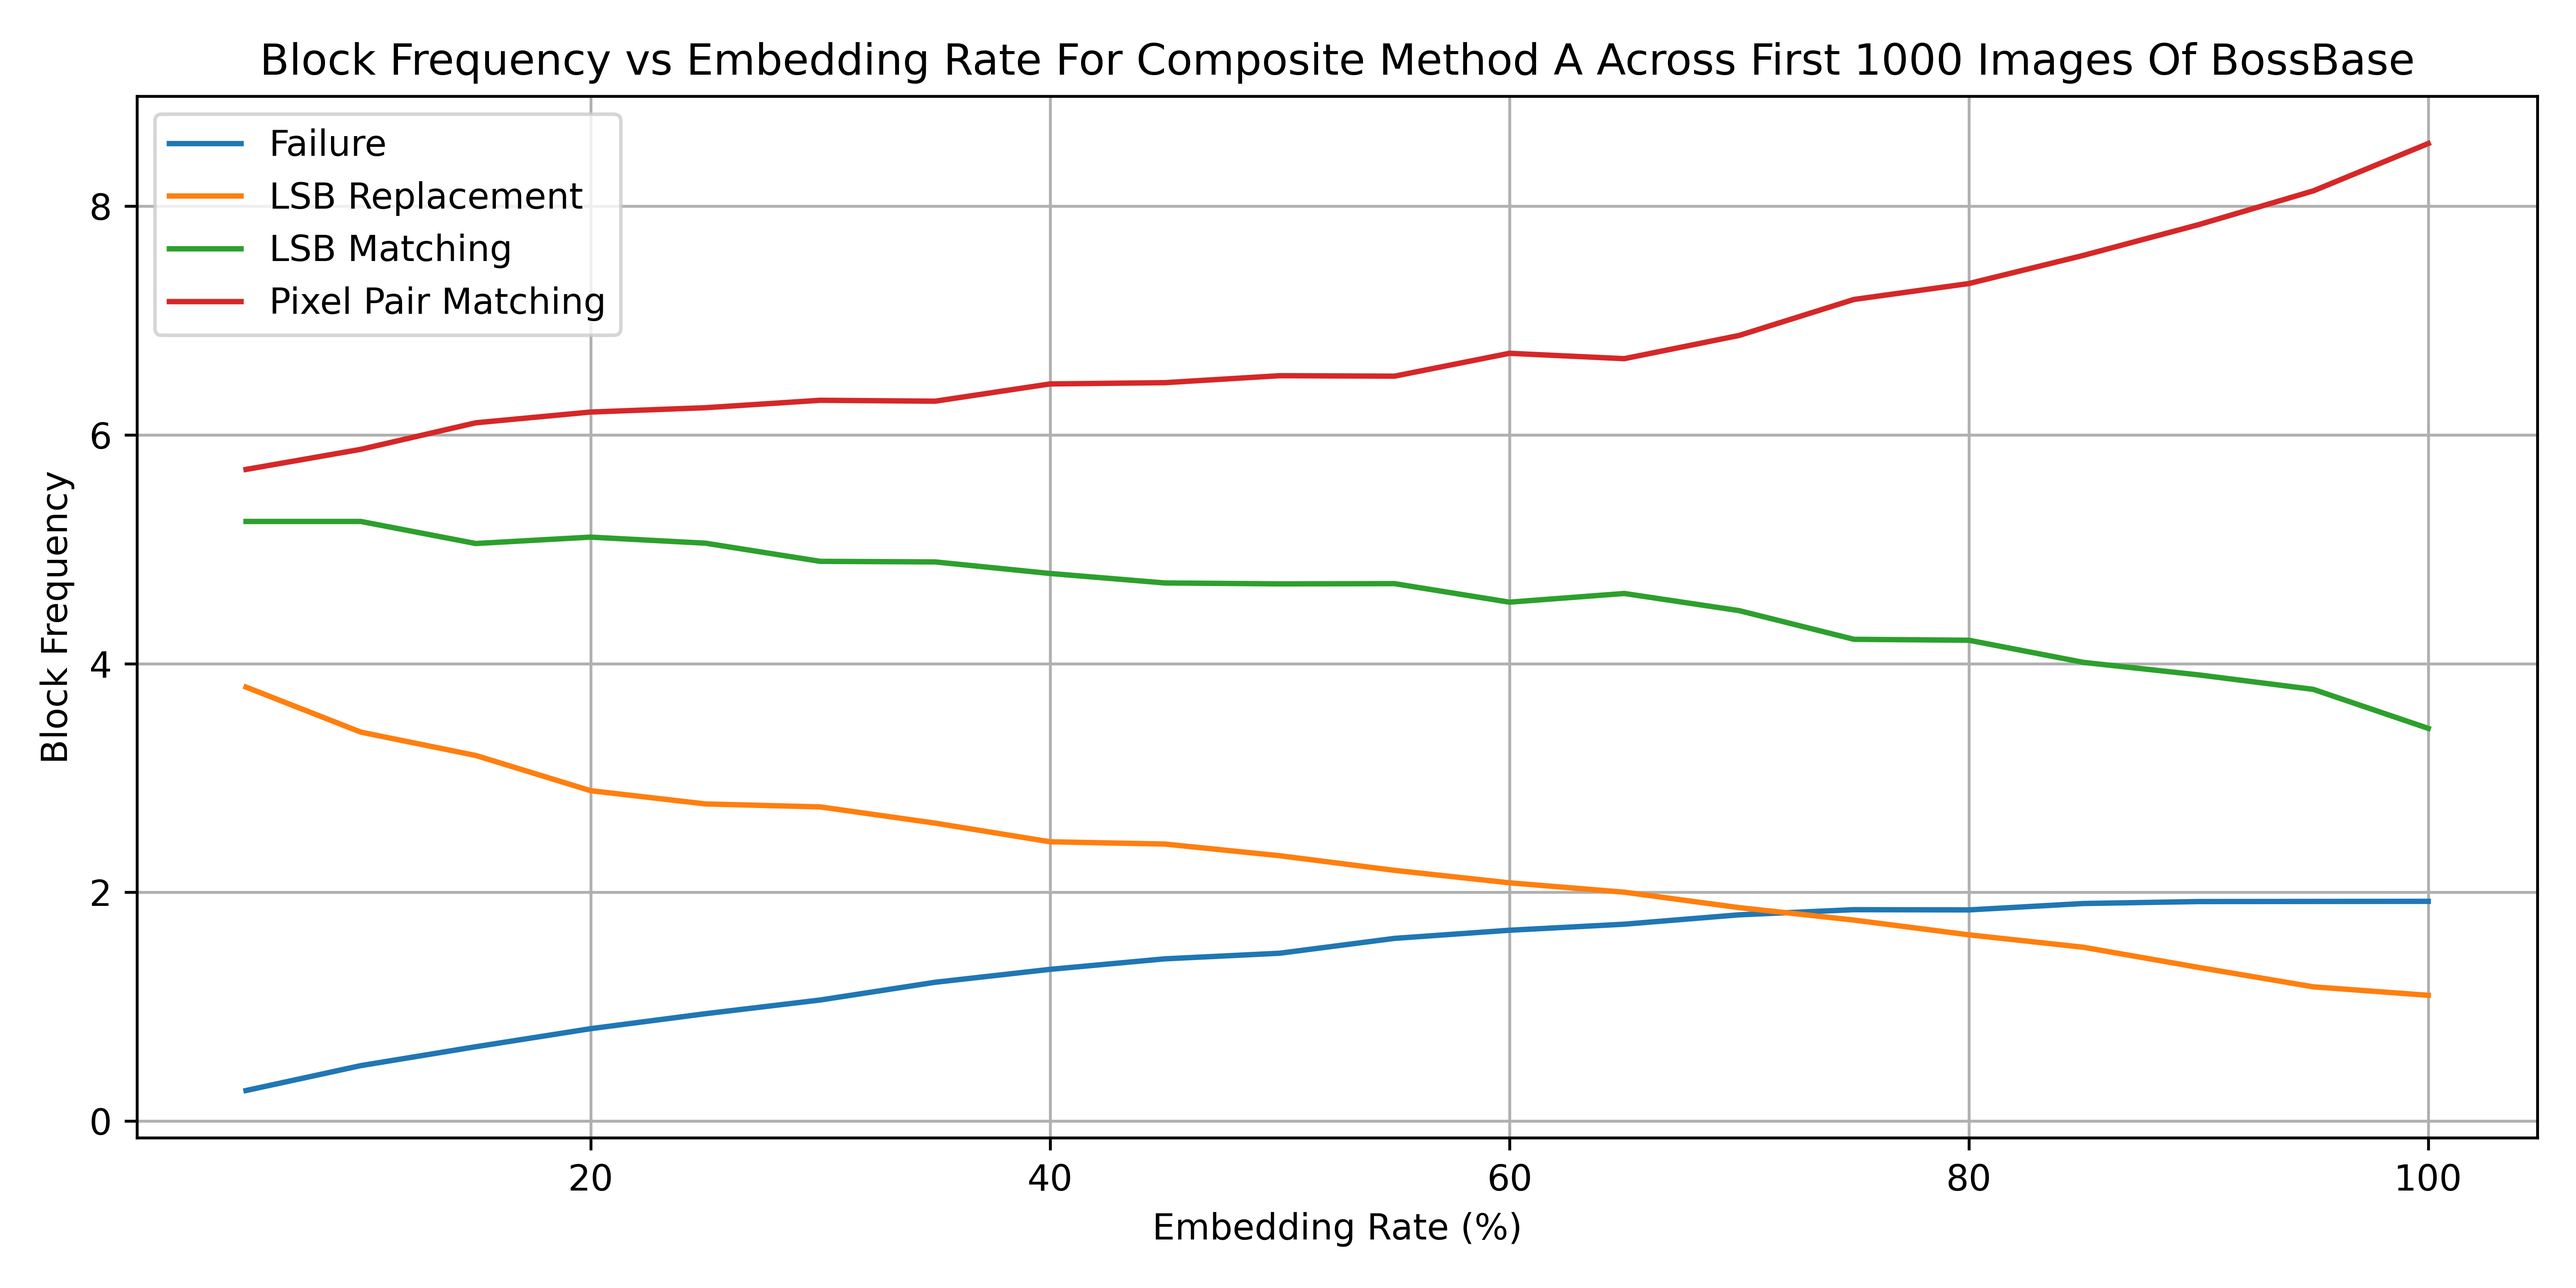
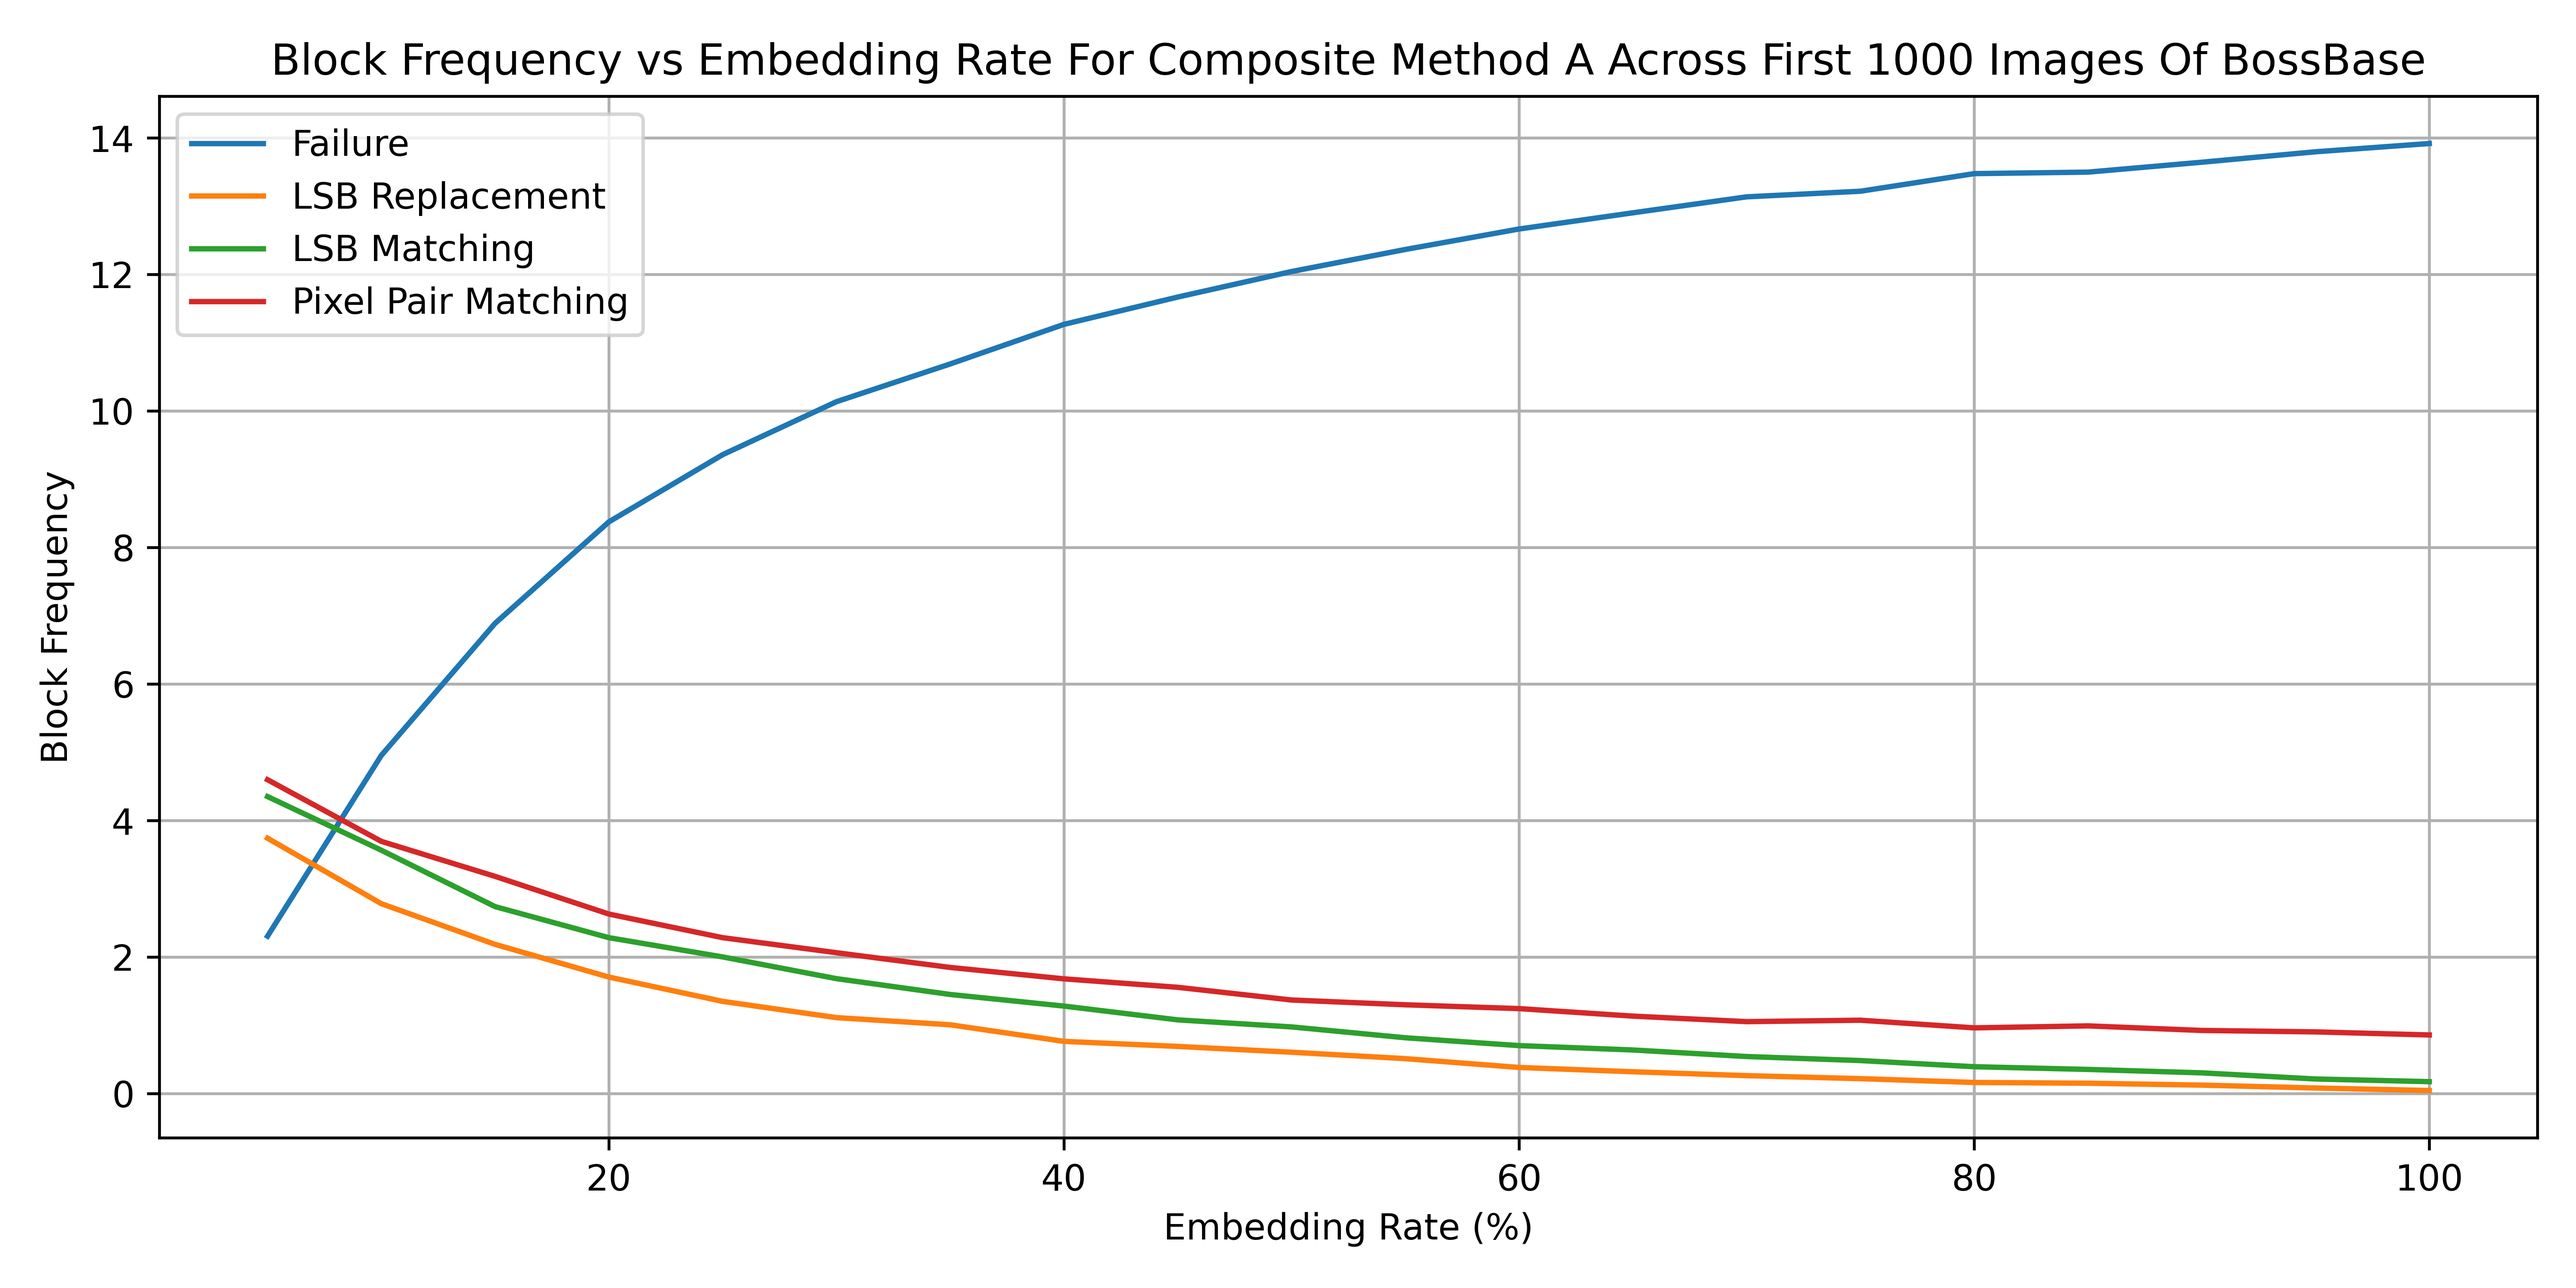
Further Updates - Line Graphs Done
- Further Claude feedback implemented
- Chi2 and Zhang coefficients recalculated
- Line graphs correct
    - Chi2 so high as system can most easily localise optimise this metric
- Heatmaps next

diff --git a/Adaptive Embedding Idea/NewDeriverForCoefficients.py b/Adaptive Embedding Idea/NewDeriverForCoefficients.py
@@ -1,0 +1,84 @@
+#Goal of this script is to rederive coefficients for c and z using 64 * 64 blocks
+
+from Helpers.EmbeddingAlgorithms import StandardLSB, LSBMatching, PixelPairMatching
+from Helpers.SteganalysisMethods import ChiSquareAttack, ZhangLSBMatching
+from Helpers.HelperFunctions import GetPaths, SplitIntoBlocks
+import os
+from copy import deepcopy
+
+BOSSBASE_FOLDER = GetPaths()["Bossbase Path"]
+paths = os.listdir(BOSSBASE_FOLDER)
+embedPath = r"C:\Users\iniga\OneDrive\Programming\Steganography Research\Adaptive Embedding Idea\Lipsum.txt"
+
+embedData = []
+with open(embedPath, "r") as f:
+    embedData = [*f.read()]
+
+coverBlocks = []
+for path in paths:
+    blocks = SplitIntoBlocks(os.path.join(BOSSBASE_FOLDER, path), 32)
+    for i in range(len(blocks)):
+        for j in range(len(blocks[i])):
+            coverBlocks.append(blocks[i][j])
+    
+    
+coverBlocksChi2 = []
+coverBlocksZhang = []
+
+LSBRBlocksChi2 = []
+LSBRBlocksZhang = []
+
+LSBMBlocksChi2 = []
+LSBMBlocksZhang = []
+
+PPMBlocksChi2 = []
+PPMBlocksZhang = []
+
+counter = 1
+print("Start")
+secret = "".join(embedData[:int((32 * 32)/8)]) #100% embed rate
+
+
+for coverBlock in coverBlocks:
+    if(counter % 100 == 0):
+        print(f"{counter * 100 / len(coverBlocks)}%")
+    coverBlocksChi2.append(ChiSquareAttack(coverBlock))
+    coverBlocksZhang.append(ZhangLSBMatching(coverBlock))
+    
+    LSBR = StandardLSB(deepcopy(coverBlock), secret,True)
+    LSBM = LSBMatching(deepcopy(coverBlock), secret, True)
+    PPM = PixelPairMatching(deepcopy(coverBlock), secret, 1, True)
+    
+    LSBRBlocksChi2.append(ChiSquareAttack(LSBR))
+    LSBRBlocksZhang.append(ZhangLSBMatching(LSBR))
+    
+    LSBMBlocksChi2.append(ChiSquareAttack(LSBM))
+    LSBMBlocksZhang.append(ZhangLSBMatching(LSBM))
+    
+    PPMBlocksChi2.append(ChiSquareAttack(PPM))
+    PPMBlocksZhang.append(ZhangLSBMatching(PPM))
+    
+    counter += 1
+    
+coverChi2AVG = sum(coverBlocksChi2) / len(coverBlocksChi2)
+coverZhangAVG = sum(coverBlocksZhang) / len(coverBlocksZhang)
+
+lsbrChi2AVG = sum(LSBRBlocksChi2) / len(LSBRBlocksChi2)
+lsbrZhangAVG = sum(LSBRBlocksZhang) / len(LSBRBlocksZhang)
+
+lsbmChi2AVG = sum(LSBMBlocksChi2) / len(LSBMBlocksChi2)
+lsbmZhangAVG = sum(LSBMBlocksZhang) / len(LSBMBlocksZhang)
+
+ppmChi2AVG = sum(PPMBlocksChi2) / len(PPMBlocksChi2)
+ppmZhangAVG = sum(PPMBlocksZhang) / len(PPMBlocksZhang)
+
+print(f"Chi2  Cover:  {coverChi2AVG}")
+print(f"Zhang Cover:  {coverZhangAVG}")
+print(f"Chi2  LSBR :  {lsbrChi2AVG}")
+print(f"Zhang LSBR :  {lsbrZhangAVG}")
+print(f"Chi2  LSBM :  {lsbmChi2AVG}")
+print(f"Zhang LSBM :  {lsbmZhangAVG}")
+print(f"Chi2  PPM  :  {ppmChi2AVG}")
+print(f"Zhang PPM  :  {ppmZhangAVG}")
+
+counter = 1

diff --git a/Adaptive Embedding Idea/GraphMakerNew.py b/Adaptive Embedding Idea/GraphMakerNew.py
@@ -408,39 +408,43 @@ def DeriveGraphsFromSQL(settings : dict):
 
 #SQLStoreCompositeMethodPSNRvEmbedRate(blockSize=(32,32), threshold=3)
 settings = {
-    "A" : (64,3),
-    #"B" : (64,1),
-    #"C" : (64,5),
-    #"D" : (32,3),
-    #"E" : (32,1),
-    #"F" : (32,5)
+    "A" : (64,1),
+    "B" : (64,3),
+    "C" : (64,5),
+    "D" : (64,7),
+    "E" : (32,3),
+    "F" : (32,1),
+    "G" : (32,5),
+    "H" : (32, 7)
 }
 
-#SQLStoreCompositeMethodPSNRvEmbedRate(blockSize=(32,32), threshold=5)
+#SQLStoreCompositeMethodPSNRvEmbedRate(blockSize=(64,64), threshold=3, blocksPerSideArg=4, step=5)
 DeriveGraphsFromSQL(settings)
 
 """SQLStoreCompositeMethodPSNRvEmbedRate(blockSize=(32,32), threshold=1)
 SQLStoreCompositeMethodPSNRvEmbedRate(blockSize=(32,32), threshold=3)
 SQLStoreCompositeMethodPSNRvEmbedRate(blockSize=(32,32), threshold=5)"""
 
-"""if __name__ == "__main__":
-    p1 = Process(target=SQLStoreCompositeMethodPSNRvEmbedRate,
-                kwargs={"blockSize": (64,64), "threshold": 3, "blocksPerSideArg" : 4, "step" : 5})
+#if __name__ == "__main__":
+    #p1 = Process(target=SQLStoreCompositeMethodPSNRvEmbedRate,
+    #            kwargs={"blockSize": (32,32), "threshold": 3, "blocksPerSideArg" : 8, "step" : 5})
 
-    p2 = Process(target=SQLStoreCompositeMethodPSNRvEmbedRate,
-                kwargs={"blockSize": (64,64), "threshold": 1, "blocksPerSideArg" : 4})
+    #p2 = Process(target=SQLStoreCompositeMethodPSNRvEmbedRate,
+    #            kwargs={"blockSize": (32,32), "threshold": 1, "blocksPerSideArg" : 8, "step" : 5})
+    #p3 = Process(target=SQLStoreCompositeMethodPSNRvEmbedRate,
+    #            kwargs={"blockSize": (32,32), "threshold": 5, "blocksPerSideArg" : 8, "step" : 5})
+    #p4 = Process(target=SQLStoreCompositeMethodPSNRvEmbedRate,
+    #            kwargs={"blockSize": (32,32), "threshold": 5, "blocksPerSideArg" : 8, "step" : 5})
 
-    p3 = Process(target=SQLStoreCompositeMethodPSNRvEmbedRate,
-                kwargs={"blockSize": (64,64), "threshold": 5, "blocksPerSideArg" : 4})
-
-
-    p1.start()
-    p2.start()
-    p3.start()
+    #p1.start()
+    #p2.start()
+    #p3.start()
+    #p4.start()
     
-    p1.join()
-    p2.join()
-    p3.join()"""
+    #p1.join()
+    #p2.join()
+    #p3.join()
+    #p4.join()
     
 """   p1 = Process(target=SQLStoreCompositeMethodPSNRvEmbedRate,
                 kwargs={"blockSize": (32,32), "threshold": 1, "blocksPerSideArg" : 8})

diff --git a/Adaptive Embedding Idea/Helpers/TestingScriptFuncVersion.py b/Adaptive Embedding Idea/Helpers/TestingScriptFuncVersion.py
@@ -12,11 +12,11 @@ bytesPerSectionDefault = 512 #Currently an embed rate of 25%
 #0.17,1.11,0.04
 
 #See Derivation of Coefficients TXT for how I found this values
-#!EXPERIMENTATION - Chi2 and Zhang x16
+#!EXPERIMENTATION - 32 by 32 normalised coefficients
 DEVIATION_COEFFICENTS = {
-    "Chi Square Attack" : -1/580.76 * 16,
+    "Chi Square Attack" : 1/(43.39452600852078 - 65.64883889634174),
     "PSNR" : 40,
-    "Zhang" : 1/10856.838 * 16
+    "Zhang" : 1/(519.01159375 - 468.278875)
 }
 acceptableMappingThresholdDefault = 3
 blocksPerSideDefault = 4
